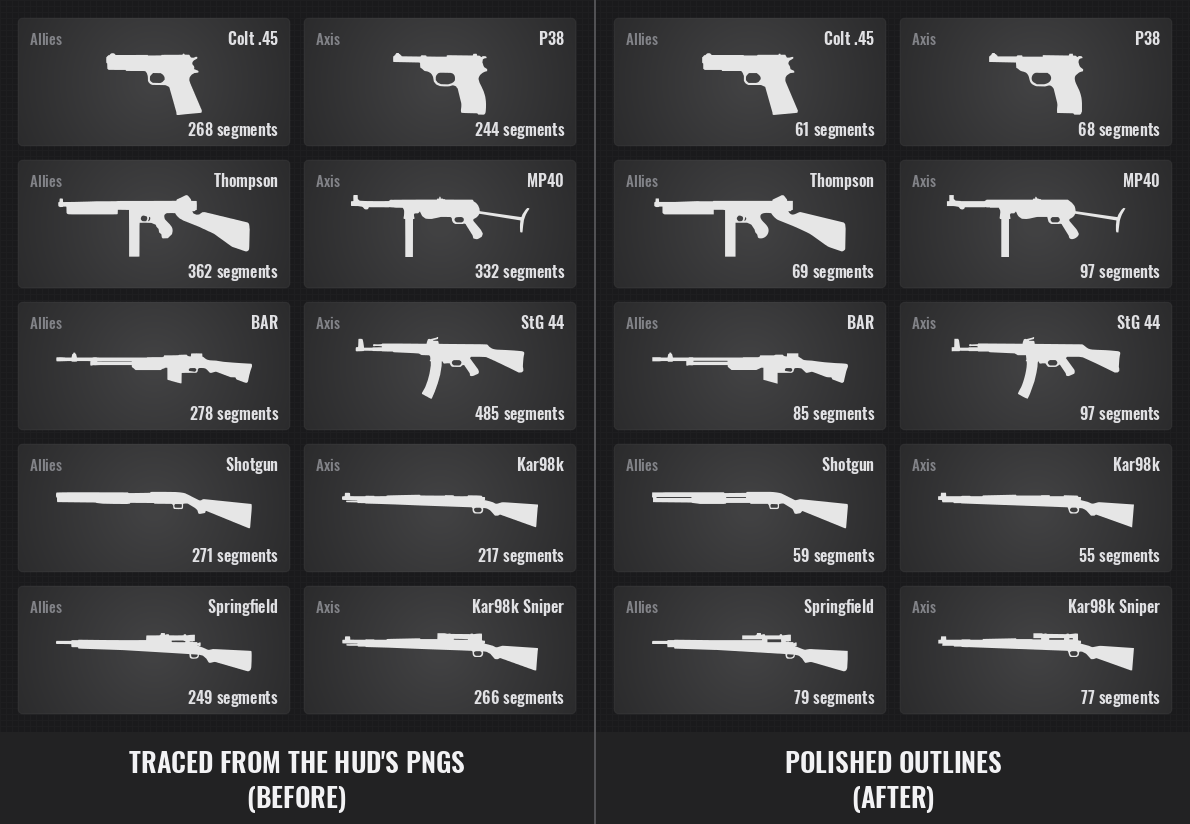
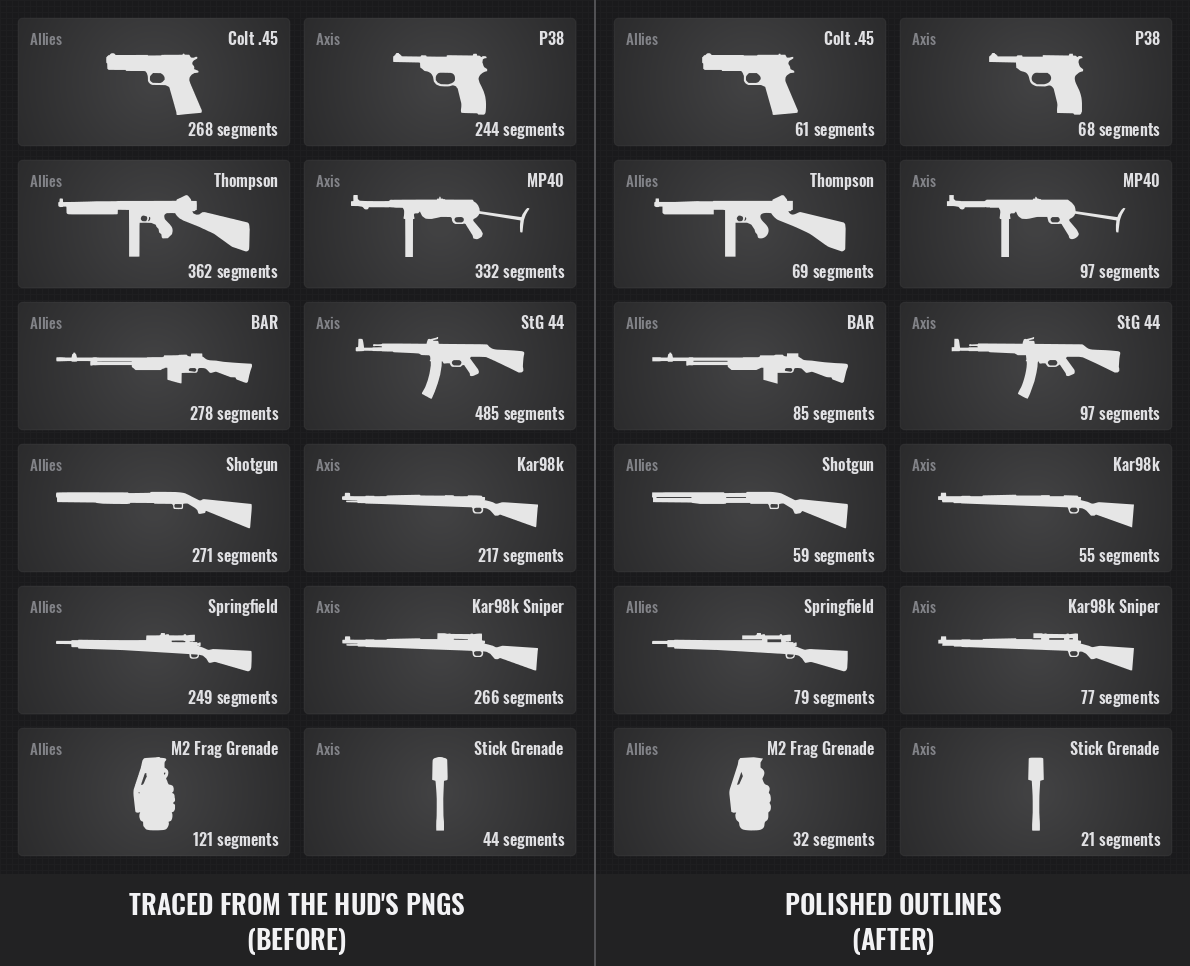
Add the polished M2 frag and stick grenade outlines
The two grenades drawn again from their PNGs as clean vectors,
following pictures of them:

- M2 frag grenade: the segments' bumps, hard notches in the PNG, now
  even rounded bumps, and the base rounded; the lever down the side,
  with the slot behind it, and the fuse stay crisp. The 1 px pinhole
  by the fuse is closed. 32 segments against the trace's 121.
- Stick grenade (Model 24): a flat head top with rounded edges where
  the game's model has a dome, the head's bottom stepping down to the
  handle half as steeply as the model's, and the handle tapering and
  flaring smoothly into its cap. Drawn exactly symmetric, the left
  half fitted to both sides of the picture and mirrored. 21 segments
  against the trace's 44.

Both added to the README's buy-menu cards, as a row of their own.

diff --git a/README.md b/README.md
@@ -43,11 +43,11 @@ Like the originals they are white, the colour the HUD tints, so they don't show 
 
 ### Polished
 
-The polished outlines are drawn again from the same PNGs, as clean vectors: edges that are straight on the weapon are exactly straight, corners are crisp, and curved parts such as grips, trigger guards and stocks are smooth, with none of the pixel steps left. Which parts are curved is judged from renders and pictures of the weapon; the Thompson's grip and stock follow a picture of a real M1A1. Each still lines up with its PNG to within about a pixel, in a fifth to a third of the trace's segments, and is the same kind of file: one white path, the viewBox the PNG's size, holes running against the shapes around them. On the two scoped rifles, the Kar98k sniper and the Springfield, the gap between the scope and the rifle is opened again: the game's models have it, but the PNGs' 1-pixel border closed it. It is a little wider than on the models, so the scope still stands clear at HUD size. The shotgun gets the gap between its barrel and magazine tube, in front of and behind the pump, that the real trench gun has and the game's model leaves solid, and the BAR's barrel and gas cylinder are parted the same way. Gaps too thin to show at HUD size are closed instead, such as the slit under the Kar98k's barrel: at HUD size they only add noise.
+The polished outlines are drawn again from the same PNGs, as clean vectors: edges that are straight on the weapon are exactly straight, corners are crisp, and curved parts such as grips, trigger guards and stocks are smooth, with none of the pixel steps left. Which parts are curved is judged from renders and pictures of the weapon; the Thompson's grip and stock follow a picture of a real M1A1. Each still lines up with its PNG to within about a pixel, in a fifth to a third of the trace's segments, and is the same kind of file: one white path, the viewBox the PNG's size, holes running against the shapes around them. On the two scoped rifles, the Kar98k sniper and the Springfield, the gap between the scope and the rifle is opened again: the game's models have it, but the PNGs' 1-pixel border closed it. It is a little wider than on the models, so the scope still stands clear at HUD size. The shotgun gets the gap between its barrel and magazine tube, in front of and behind the pump, that the real trench gun has and the game's model leaves solid, and the BAR's barrel and gas cylinder are parted the same way. Gaps too thin to show at HUD size are closed instead, such as the slit under the Kar98k's barrel: at HUD size they only add noise. The stick grenade's head follows the real Model 24, with a flat top and a gentler step down to the handle than the game's model has, and the grenade is drawn exactly symmetric.
 
-So far the Kar98k and its sniper version, the Thompson, the Colt .45, the P38, the MP40, the StG 44, the BAR, the Springfield and the shotgun are done; the rest of *Allied Assault*'s own weapons are to follow, the bazooka and the Panzerschreck aside. Traced against polished, laid out like a buy menu: each card gives the team, the name and the outline's segment count, the Allied weapons beside their German counterparts:
+So far the Kar98k and its sniper version, the Thompson, the Colt .45, the P38, the MP40, the StG 44, the BAR, the Springfield, the shotgun and both grenades are done; the rest of *Allied Assault*'s own weapons are to follow, the bazooka and the Panzerschreck aside. Traced against polished, laid out like a buy menu: each card gives the team, the name and the outline's segment count, the Allied weapons beside their German counterparts:
 
-<img src="weapons/preview-polished.png" alt="Buy-menu cards on dark grey, the traced outlines on the left and the polished ones on the right: Colt .45 and P38, Thompson and MP40, BAR and StG 44, shotgun and Kar98k, Springfield and Kar98k sniper, each card with its team, name and segment count">
+<img src="weapons/preview-polished.png" alt="Buy-menu cards on dark grey, the traced outlines on the left and the polished ones on the right: Colt .45 and P38, Thompson and MP40, BAR and StG 44, shotgun and Kar98k, Springfield and Kar98k sniper, the M2 frag grenade and the stick grenade, each card with its team, name and segment count">
 
 ## Logo
 
